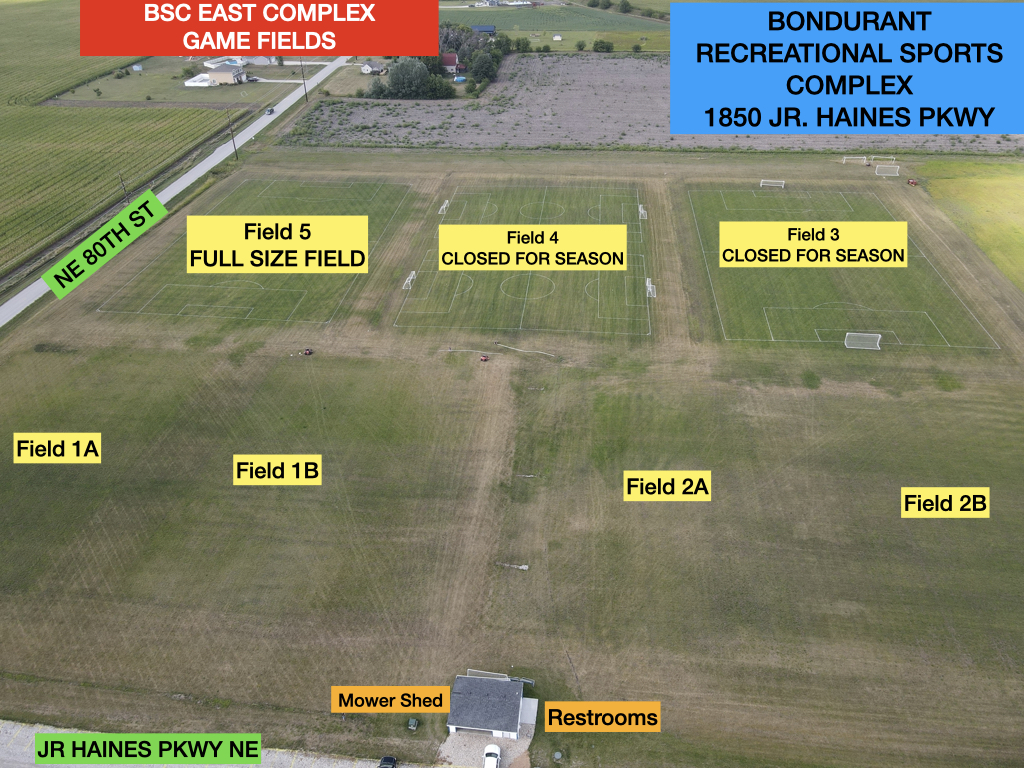
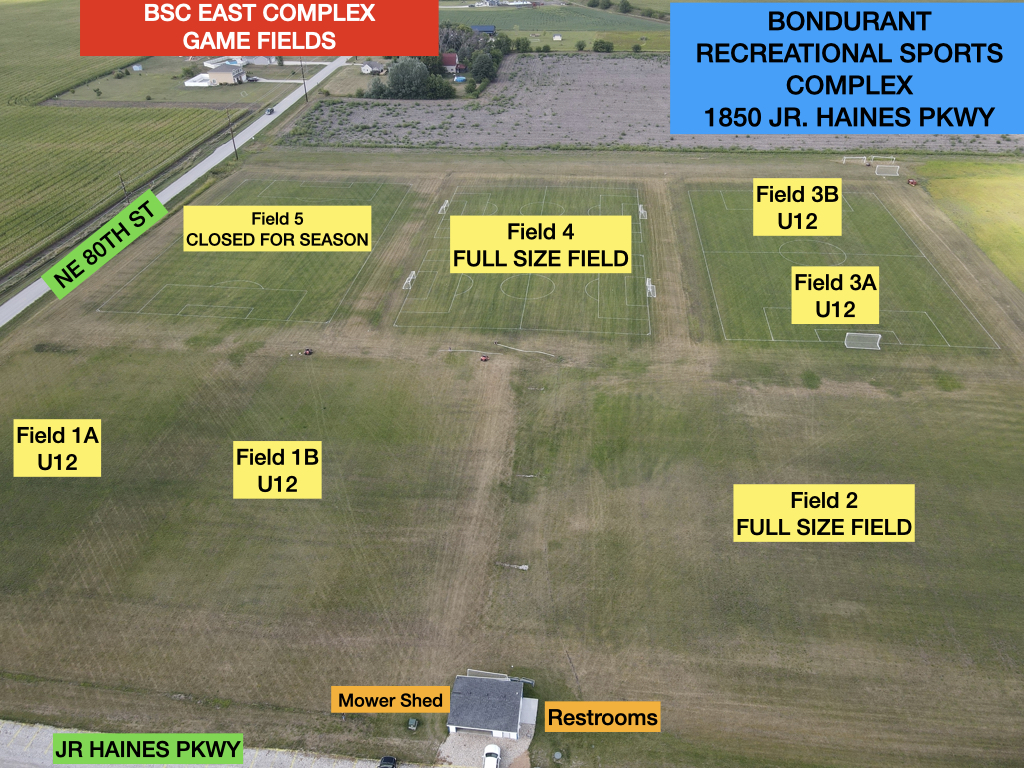
updating field layout images

diff --git a/packages/site/src/components/locations/state.tsx b/packages/site/src/components/locations/state.tsx
@@ -1,7 +1,5 @@
 import { AGE_GROUPS } from '../../common/state/age-groups';
 import { LocationData } from '../../common/state/location-data';
-import path from 'path';
-import { getImage, StaticImage } from 'gatsby-plugin-image';
 
 export const COLLISON_SOCCER_PARK_LOCATION: LocationData = {
     title: 'Collison Soccer Park',
@@ -18,7 +16,12 @@ export const COLLISON_SOCCER_PARK_LOCATION: LocationData = {
         {
             title: 'All Fields',
             image: 'west_complex_all_fields',
-            alt: 'Arial view of all collison soccer park fields'
+            alt: 'Arial view of all Collison soccer park fields'
+        },
+        {
+            title: 'North East Fields',
+            image: 'west_complex_north_east_fields',
+            alt: 'Arial view of northeast Collison soccer park fields'
         }
     ]
 };
